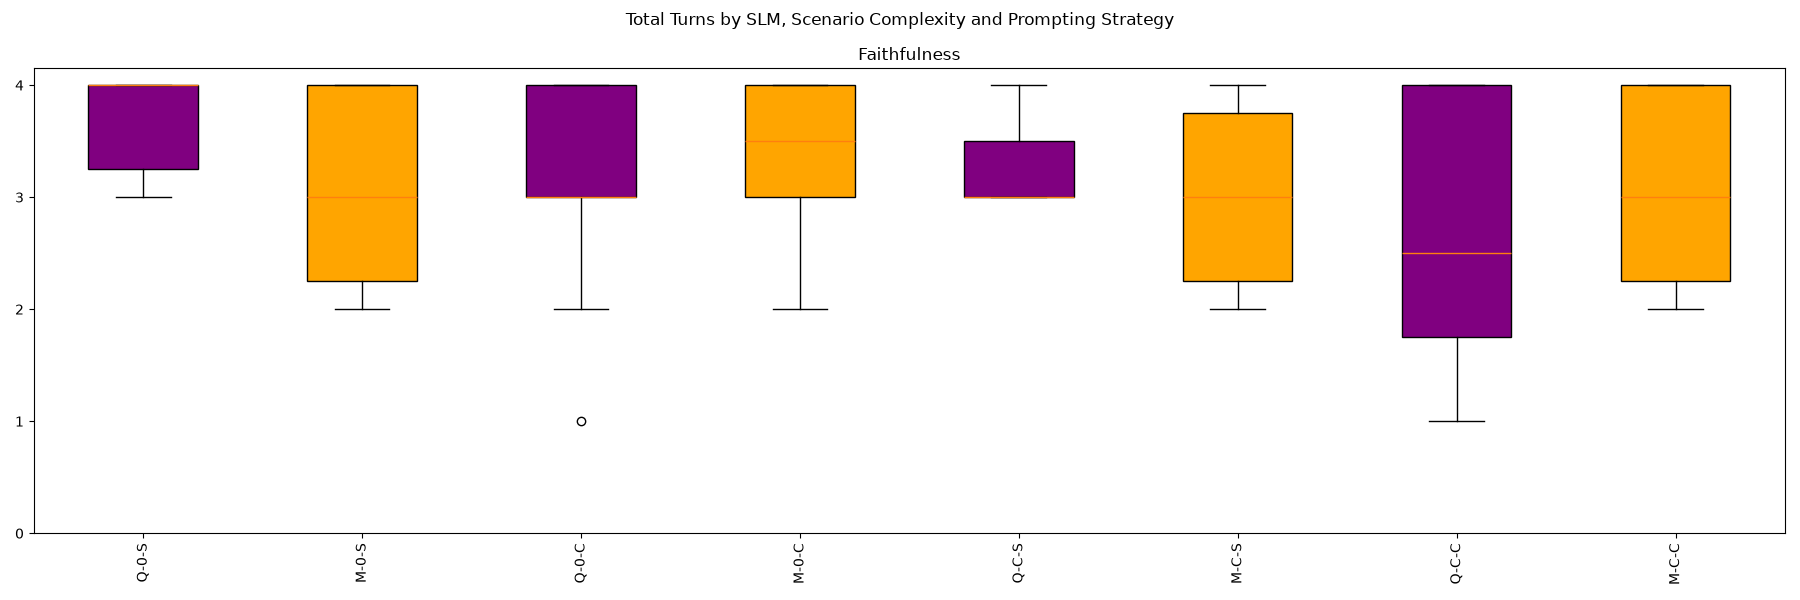
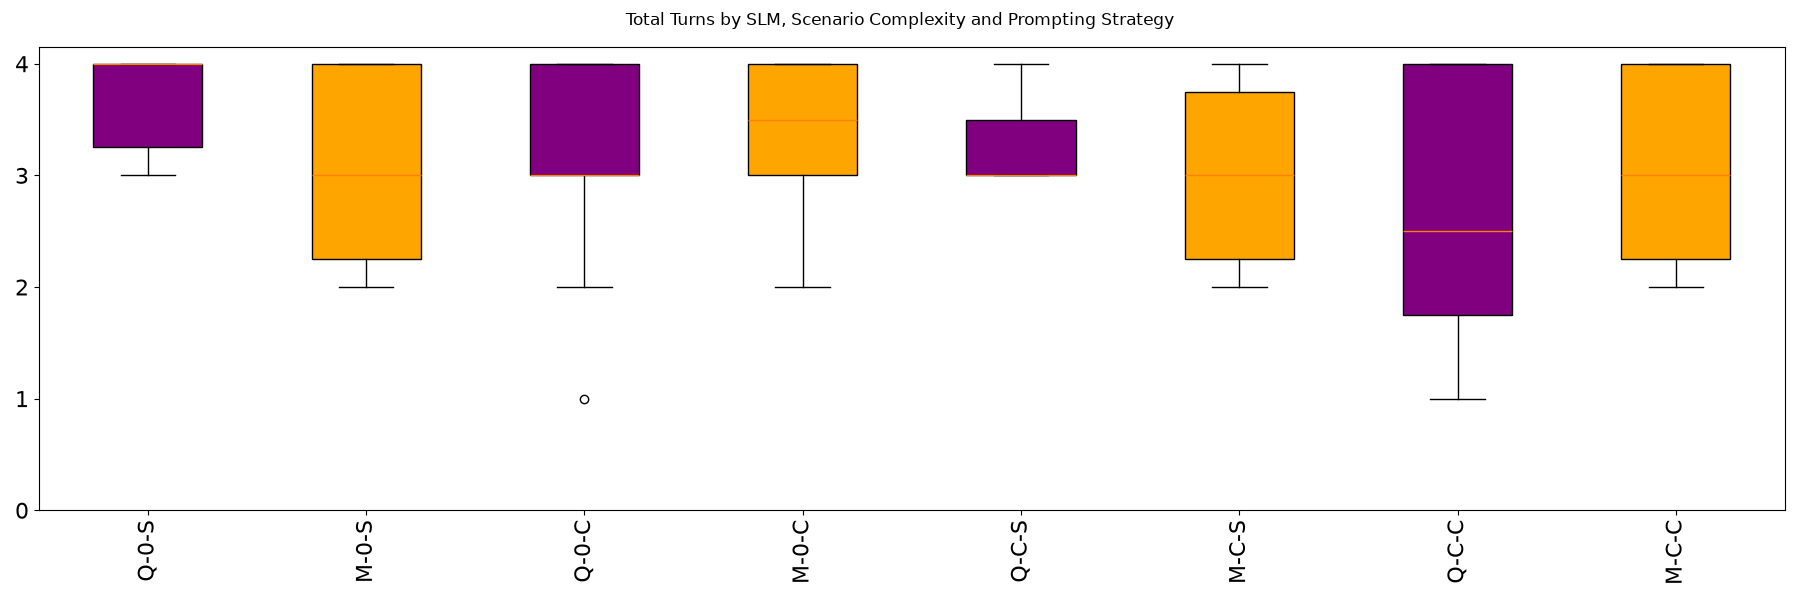
Updated number_turns

diff --git a/number_turns.py b/number_turns.py
@@ -36,9 +36,9 @@ labels = ["Q-0-S", "M-0-S", "Q-0-C", "M-0-C", "Q-C-S", "M-C-S", "Q-C-C", "M-C-C"
 
 # Row one
 ax1 = ax.boxplot([turn_count_reasoning.loc[(turn_count_reasoning["Scenario"] == "Simple") & (turn_count_reasoning["Strategy"] == "Zero")]["Total Turns"], turn_count_non_reasoning.loc[(turn_count_non_reasoning["Scenario"] == "Simple") & (turn_count_non_reasoning["Strategy"] == "Zero")]["Total Turns"], turn_count_reasoning.loc[(turn_count_reasoning["Scenario"] == "Complex") & (turn_count_reasoning["Strategy"] == "Zero")]["Total Turns"], turn_count_non_reasoning.loc[(turn_count_non_reasoning["Scenario"] == "Complex") & (turn_count_non_reasoning["Strategy"] == "Zero")]["Total Turns"], turn_count_reasoning.loc[(turn_count_reasoning["Scenario"] == "Simple") & (turn_count_reasoning["Strategy"] == "Context")]["Total Turns"], turn_count_non_reasoning.loc[(turn_count_non_reasoning["Scenario"] == "Simple") & (turn_count_non_reasoning["Strategy"] == "Context")]["Total Turns"], turn_count_reasoning.loc[(turn_count_reasoning["Scenario"] == "Complex") & (turn_count_reasoning["Strategy"] == "Context")]["Total Turns"], turn_count_non_reasoning.loc[(turn_count_non_reasoning["Scenario"] == "Complex") & (turn_count_non_reasoning["Strategy"] == "Context")]["Total Turns"] ], tick_labels=labels, patch_artist=True)
-ax.set_title("Faithfulness")
 
-
+ax.tick_params(axis="x", labelsize=16)
+ax.tick_params(axis="y", labelsize=16)
 
 colours = ["purple", "orange", "purple", "orange", "purple", "orange", "purple", "orange"]
 
